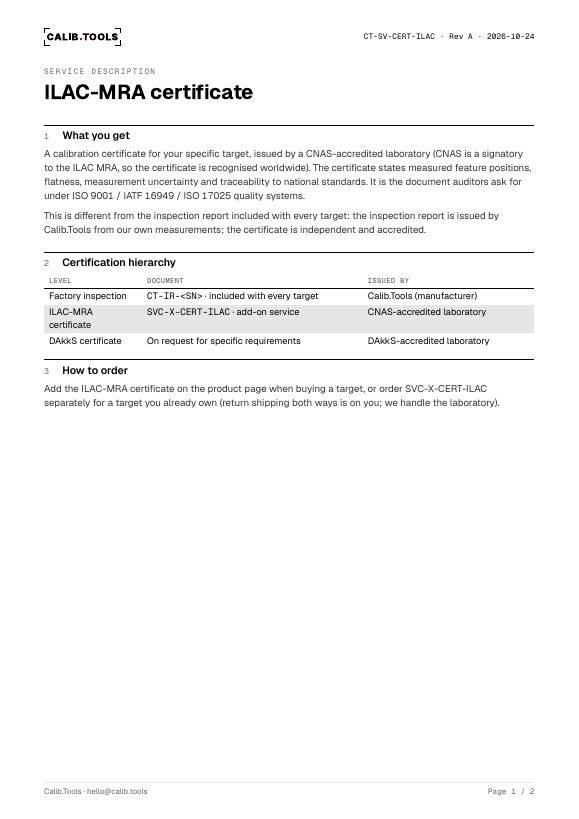
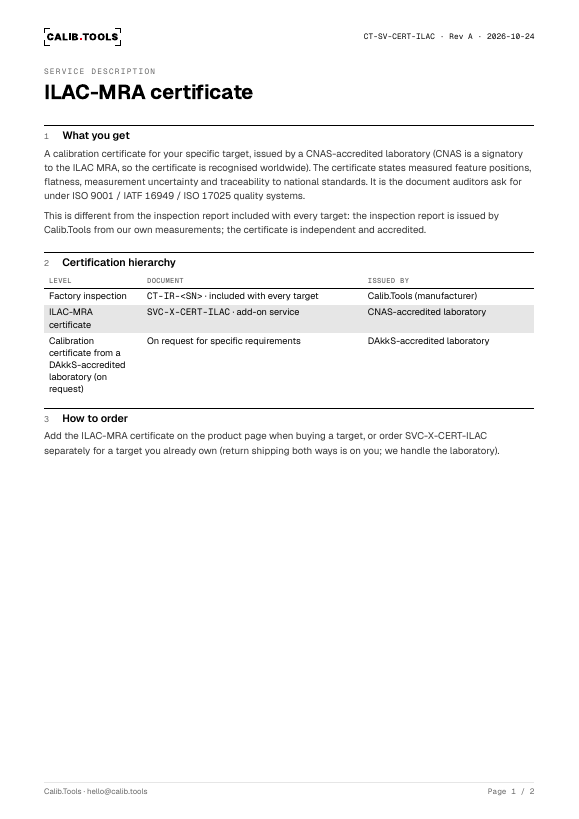
fix(docs): restore third-tier DAkkS row as customer option, narrow prose guard
The certification hierarchy third row originally meant "a DAkkS-accredited
calibration certificate, available on request" — a customer option, not our
golden sample. Restore that meaning and tighten check-prose rules: ban
"DAkkS-certified", "certified by DAkkS", "DAkkS certificate included",
"our DAkkS certificate"; allow "DAkkS-accredited laboratory" and
"certificate from a DAkkS-accredited laboratory".

Changed region(s): [[0.0622, 0.3968, 0.8705, 0.58]]

diff --git a/src/docs/build/ct-sv-cert-ilac.ts b/src/docs/build/ct-sv-cert-ilac.ts
@@ -104,7 +104,7 @@ export async function buildILACCert(opts: {
         'CNAS-accredited laboratory',
       ],
       [
-        'DAkkS certificate',
+        'Calibration certificate from a DAkkS-accredited laboratory (on request)',
         'On request for specific requirements',
         'DAkkS-accredited laboratory',
       ],
